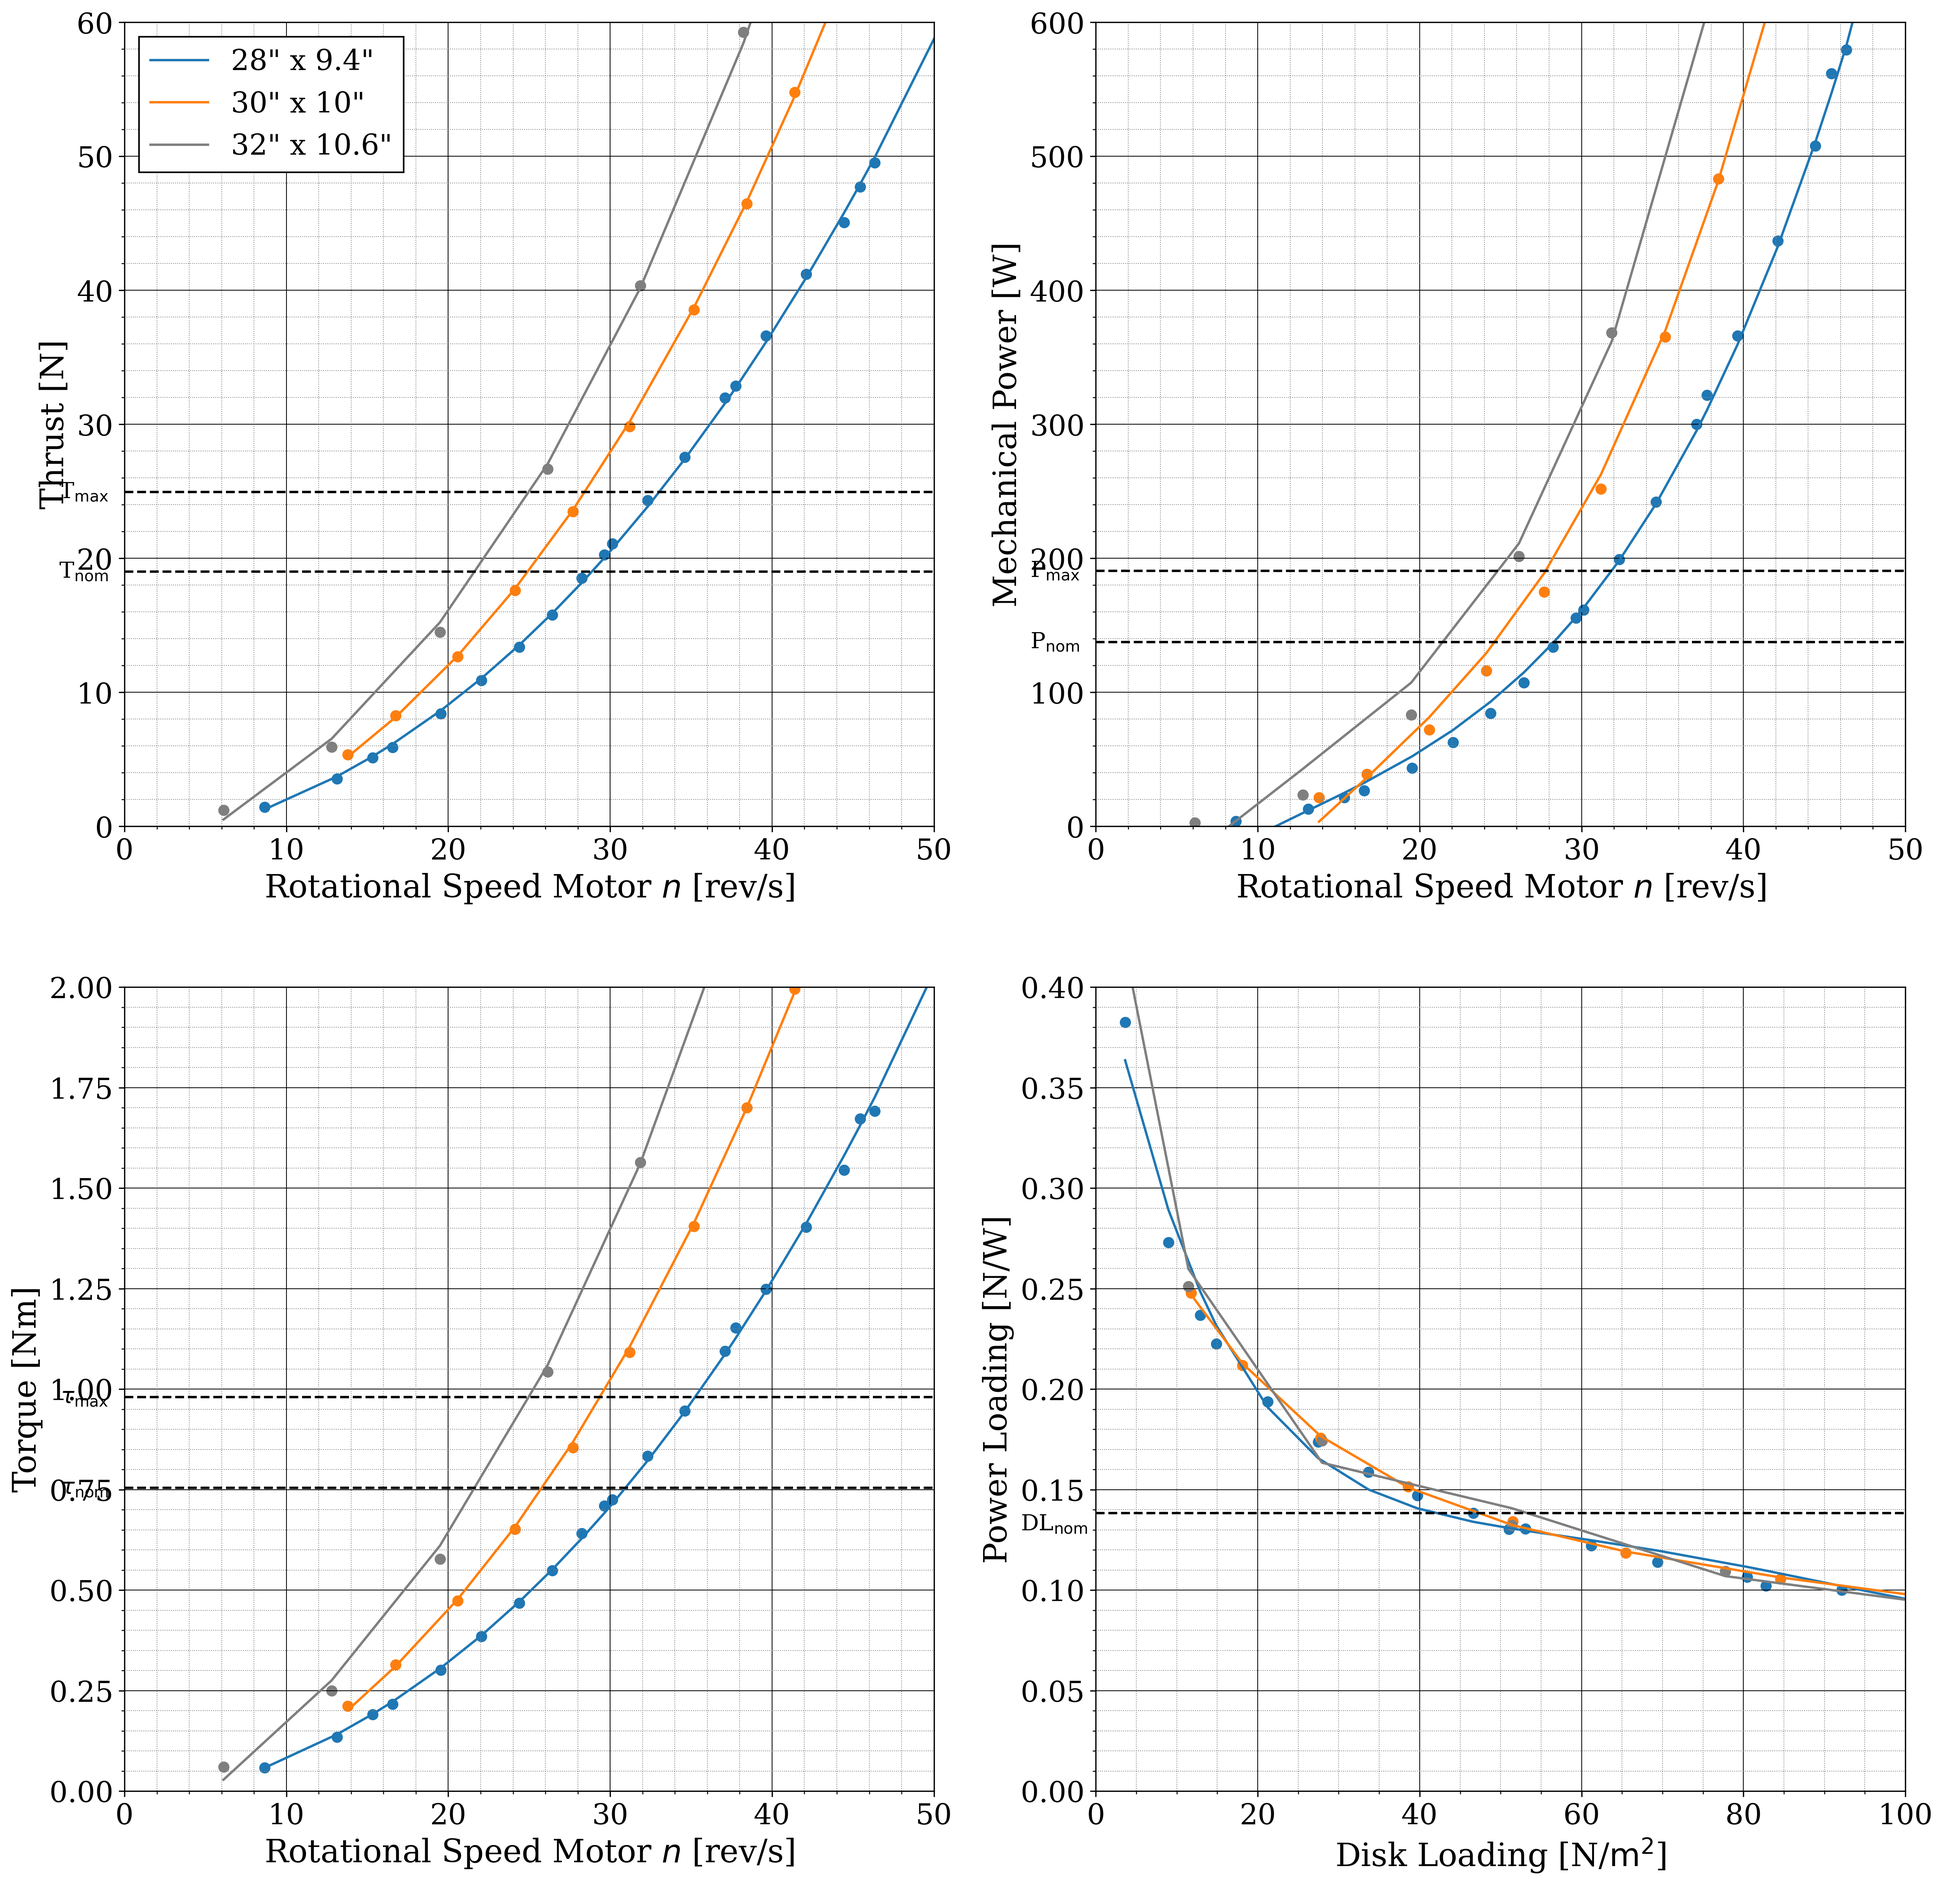
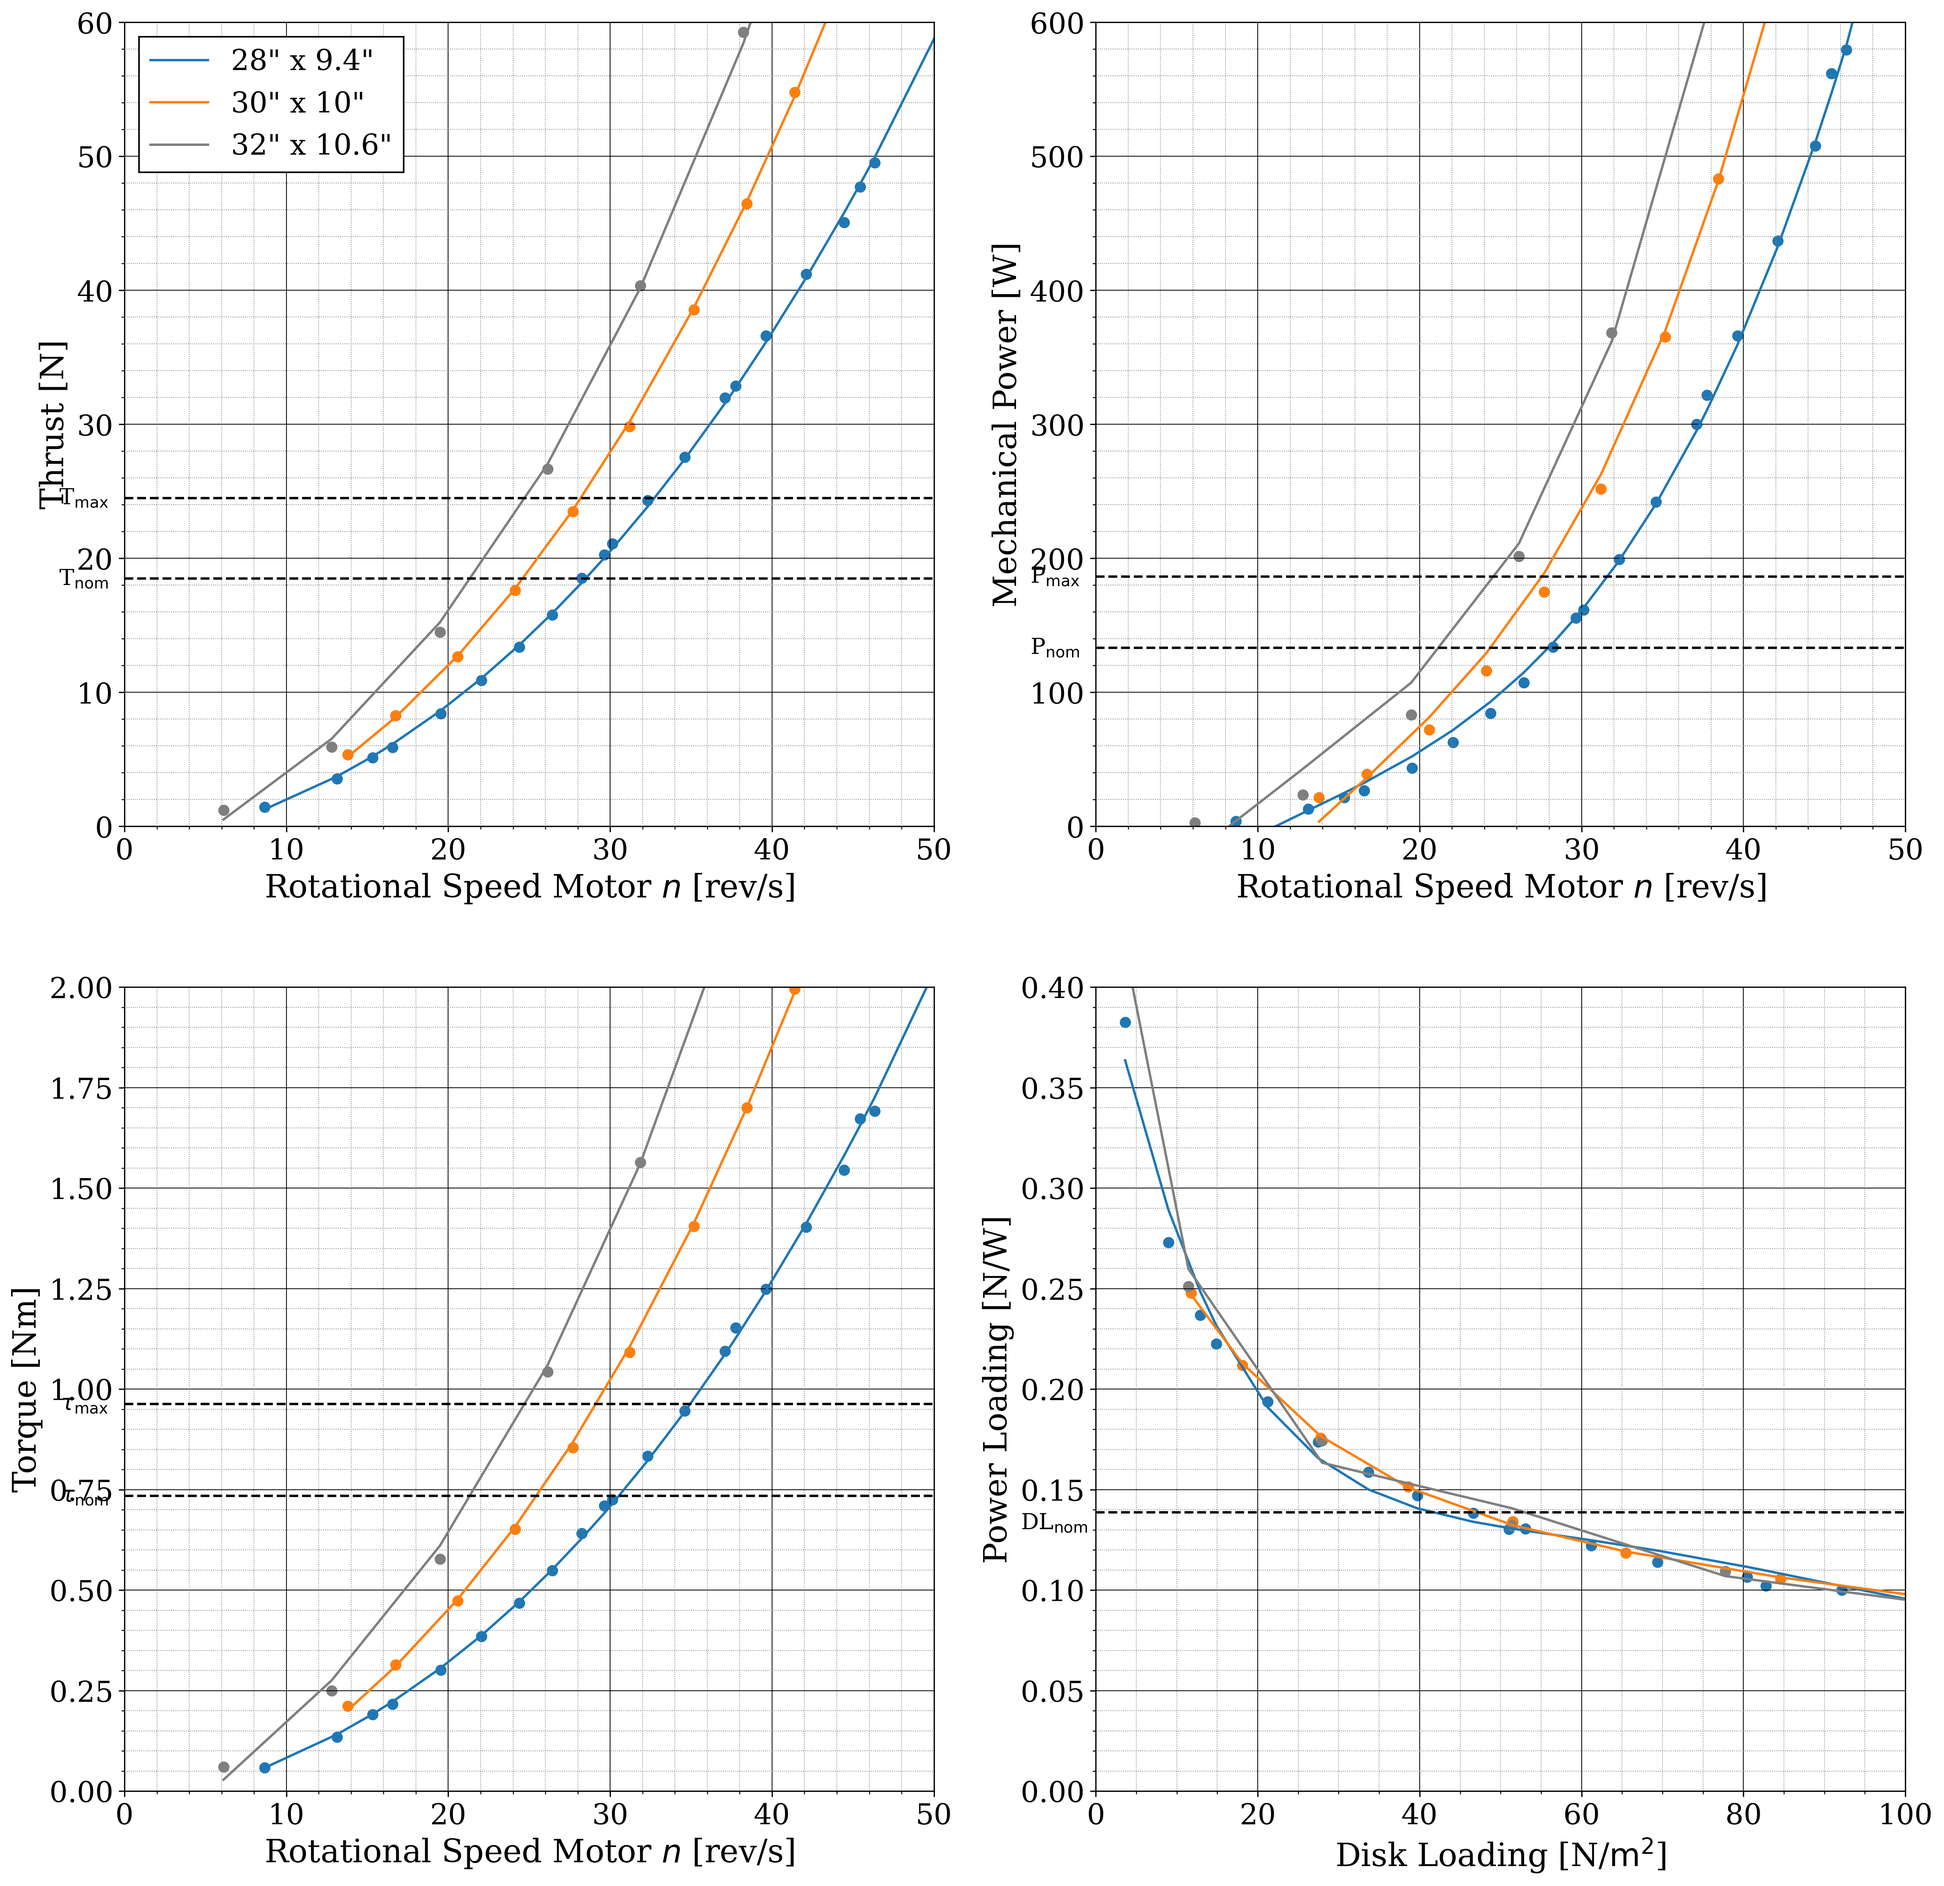
Updated Plume Modelling

diff --git a/PlumeModelling/main.py b/PlumeModelling/main.py
@@ -11,75 +11,133 @@
 		- Ir. Lorenzo Pasqualetto Cassinis
 		- Mark Schelbergen
 
-	This script is used for the propeller and motor sizing of the coaxial quadcopter		
+	This script is used for the data processing of the AQ data around Schiphol airport	
 '''
 
 import numpy as np
 import pandas as pd
+import matplotlib as mpl
 import matplotlib.pyplot as plt
 from math import pi, exp
 from pathlib import Path
-from scipy.stats import norm
-
-
+from sympy.solvers import solve
+from sympy.abc import xi, Q
+import datetime
+from scipy.stats import zscore
 
 # ==============================================================================================
-# Gaussian Plume Model
+# Set global plotting parameters
 # ==============================================================================================
-V = 12 # [m/s] freestream velocity
-xi = lambda x, y, z, h, Q, Ky, Kz: Q / (2 * pi * V) * (2 * Ky * x / V)**(-0.5) * (2 * Kz * x / V)**(-0.5) * exp( - y**2 / 2 * (2 * Ky * x / V)**(-1) - (z - h)**2 / 2 * (2 * Kz * x / V)**(-1)) #[g/m^3] pollutant concentration
+# texpsize= [18,20,22]
+
+# plt.rc('font', size=texpsize[1], family='serif')                        # controls default text sizes
+# plt.rc('axes', titlesize=texpsize[1])                                   # fontsize of the axes title
+# plt.rc('axes', labelsize=texpsize[1])                                   # fontsize of the x and y labels
+# plt.rc('xtick', labelsize=texpsize[0])                                  # fontsize of the tick labels
+# plt.rc('ytick', labelsize=texpsize[0])                                  # fontsize of the tick labels
+# plt.rc('legend', fontsize=texpsize[0])                                  # legend fontsize
+# plt.rc('figure', titlesize=texpsize[2])                                 # fontsize of the figure title
+# matplotlib.rcParams['lines.linewidth']  = 1.5
+# matplotlib.rcParams['figure.facecolor'] = 'white'
+# matplotlib.rcParams['axes.facecolor']   = 'white'
+# matplotlib.rcParams["legend.fancybox"]  = False
 
 # ==============================================================================================
 # Read Measurement Data from Pickle into DataFrame
 # ==============================================================================================
-# CO_stations 	= ['Badhoevedorp']
-# NO_stations 	= ['Badhoevedorp', 'Hoofddorp', 'Oude_Meer']
-# NO2_stations 	= ['Badhoevedorp', 'Hoofddorp', 'Oude_Meer']
-# O3_stations 	= ['Hoofddorp']
-# PM25_stations 	= ['Badhoevedorp']
-# PM10_stations 	= ['Badhoevedorp', 'Hoofddorp', 'Oude_Meer']
-PS_stations 	= ['Badhoevedorp', 'Hoofddorp', 'Oude_Meer']
+colors = ['tab:blue', 'tab:orange', 'tab:grey']
 
-species = ['CO', 'NO', 'NO2', 'O3', 'PM25', 'PM10', 'PS']
-species = ['PS']
-# stations_species = [CO_stations, NO_stations, NO2_stations, O3_stations, PM25_stations, PM10_stations, PS_stations]
-stations_species = [PS_stations]
+schiphol_data = {'CO'  : {'s1': 'Badhoevedorp'},
+				 'NO'  : {'s1': 'Badhoevedorp', 's2': 'Hoofddorp', 's3': 'OudeMeer'},
+				 'NO2' : {'s1': 'Badhoevedorp', 's2': 'Hoofddorp', 's3': 'OudeMeer'},
+				 'O3'  : {'s2': 'Hoofddorp'},
+				 'PM25': {'s1': 'Badhoevedorp'},
+				 'PM10': {'s1': 'Badhoevedorp', 's2': 'Hoofddorp', 's3': 'OudeMeer'},
+				 'PS'  : {'s1': 'Badhoevedorp', 's2': 'Hoofddorp', 's3': 'OudeMeer'}}
 
-df_CO 	= pd.DataFrame(columns=['concentration', 'timestamp'])
-df_NO 	= pd.DataFrame(columns=['concentration', 'timestamp'])
-df_NO2 	= pd.DataFrame(columns=['concentration', 'timestamp'])
-df_O3 	= pd.DataFrame(columns=['concentration', 'timestamp'])
-df_PM25 = pd.DataFrame(columns=['concentration', 'timestamp'])
-df_PM10 = pd.DataFrame(columns=['concentration', 'timestamp'])
-df_PS 	= pd.DataFrame()
+pollutants = {}
+times = [datetime.time(i,0) for i in range(6,24)]
 
-fig1, ax1 = plt.subplots(nrows=3, ncols=1, squeeze=False, figsize=(30,10))
+for species, stations in schiphol_data.items():
+	pollutant = pd.DataFrame() # initialise dataframe
 
-for index1, stations in enumerate(stations_species):
-	for index2, station in enumerate(stations):
+	for key, station in stations.items():
 		filedir = 'AQ_SchipholData'
-		file = str(station) + '_' + species[index1] + '.pickle'
-		path = Path(filedir, file)
+		file = station + '_' + species + '.pickle'
+		path = Path(filedir, file) # merge file direction and file name
 
-		df = pd.read_pickle(path) # import measurement data from pickle
-		df = df.drop(['formula'], axis=1) # remove column indicating species
-		df.columns = ['concentration', 'timestamp'] # rename column headers
-		df.concentration = df.concentration / 1000 # convert from milligram to gram
+		df = pd.read_pickle(path) # read data from pickle into dataframe
+		df.value = df.value.astype('float64') # convert data type for concentration back from object to flaot64
+		df.value = df.value * 1E-6 # convert concentrations from [microgram] to [gram]
 
-		# Get index where measurements for 2020 start - if no measurements taken in 2020, skip command
 		try:
-			dropindex = df.index[df.timestamp.str.startswith('2020')][0]
-			df = df[df.index < dropindex]
+			dropindex = df.index[df.timestamp_measured.str.startswith('2020')][0] # get start index for 2020 measurements
+			df = df[df.index < dropindex] # remove measurements for 2020
 		except IndexError:
 			pass
 
-		mu 		= df.concentration.mean()
-		sigma 	= df.concentration.std()
-		x 		= np.linspace(mu - 3 * sigma, mu + 3 * sigma, 1000)
+		df.timestamp_measured = pd.to_datetime(df.timestamp_measured, format='%Y-%m-%dT%H:%M:%S+00:00')
+		df = df[df['timestamp_measured'].dt.time.isin(times)] # remove times between 23:00:00 - 06:00:00
 
-		ax1[index2, 0].plot(x, norm.pdf(x, mu, sigma))
-		# print(index2)
+		df = df[(np.abs(zscore(df['value'])) < 3)] # remove outliers from dataset which are below/above 3 std. deviations
+		# df = df[df.value != 0] # remove rows which measured no concentration; negative concentrations are not excluded
+		df = df.reset_index() # reset indices of dataframe
+		df = df.drop(['index', 'formula'], axis=1) # remove unimportant columns
 
+		pollutant[station] = df.value
 
-plt.show()
+	pollutants[species] = pollutant
 
+# ==============================================================================================
+# Plot Data in Boxplots
+# ==============================================================================================
+concentration = pd.DataFrame(columns=['Species', 'Station', 'Max', 'Unit']) # initialise dataframe for plotting
+index = 0
+
+exportfolder = 'AQ_Boxplots'
+
+for key, value in pollutants.items():
+	fig1, ax1 = plt.subplots(nrows=1, ncols=1, squeeze=False, figsize=(8,6)) # create subplots
+
+	ylabel = 'Concentration ' + (r'particles/$m^3$' if key == 'PS' else r'g/$m^3$')
+
+	value.boxplot(ax=ax1[0,0])
+	ax1[0,0].set_ylabel(ylabel)
+
+	exportname = str(key) + '_boxplot.png'
+	exportpath = Path(exportfolder, exportname)
+	fig1.savefig(exportpath, bbox_inches='tight', dpi=300)
+
+	xi_max, pos = value.max(), value.max().idxmax(axis=1)
+	unit = 'p/m^3' if species == 'PS' else 'g/m^3' # print string of unit into dataframe
+	concentration.loc[index] = [key, pos, max(xi_max), unit]
+	index += 1
+
+# ==============================================================================================
+# Gaussian Plume Model
+# ==============================================================================================
+func = lambda xi, x, y, z, h, sigma_y, sigma_z, Q: -xi + Q / (2 * pi * sigma_y * sigma_z * V) * exp( - y**2 / (2 * sigma_y**2) - (z - h)**2 / (2 * sigma_z**2)) #[g/m^3] pollutant concentration
+
+V = 12 # [m/s] freestream velocity
+
+x = np.array([1.445E3, 0.4431E3, 1.339E3]) # minimum distance between station and runway
+
+emissionrates = pd.DataFrame(columns=['Species', 'Q', 'Unit'])
+
+for index, key in enumerate(schiphol_data.keys()):
+	xi_i = concentration.Max.iloc[index]
+	x_i = x[0] if str(concentration.Station) == 'Badhoevedorp' else x[1] if str(concentration.Station) == 'Hoofddorp' else x[2]
+	sigma_z = 0.06 * x_i * (1 + 0.0015 * x_i)**(-0.5)
+	sigma_y = 0.08 * x_i * (1 + 0.0001 * x_i)**(-0.5)
+	sigma_y = sigma_y if sigma_y > sigma_z else sigma_z
+	Q_i = solve(func(xi_i, x_i, 0, 0, 0, sigma_y, sigma_z, Q), Q) # FIX X INPUT TO MATCH MEASUREMENT STATION
+	emissionrates.loc[index] = [concentration.Species.iloc[index], Q_i[0], concentration.Unit.iloc[index]]
+
+emissionrates['Q'] = emissionrates['Q'].astype('float64') # convert object data type to float
+
+print ('\nMaximum Concentration per Pollutant:')
+print ('............................................')
+print(concentration)
+print ('\nMaximum Estimated Emission Rate per Pollutant:')
+print ('............................................')
+print(emissionrates)

diff --git a/Performance/performance.py b/Performance/performance.py
@@ -66,6 +66,7 @@ m_sensors 		= 2.386 # [kg] noise and air pollution sensors mass
 m_autonomy 		= 0.219 # [kg] autonomy hardware mass
 m_motors 		= n_propellers * 0.630 #[kg] brushless motor mass
 m_propellers 	= n_propellers * 91.46E-3 # [kg] propeller mass
+m_structures 	= 2.289 # [kg] operational empty mass
 
 # Frame data
 w_frame = 0.236 # [m] frame width
@@ -74,7 +75,7 @@ h_frame = 0.313 # [m] frame height
 # Motor data
 V_motor = 36 # [V] nominal voltage of motor
 
-# Battery configuration - Chosen cell: EEMB LP401730
+# Battery configuration - Chosen cell: EEMB LP623454
 DoD = 0.8 # [-] Depth of Discharge
 C_cell = 1200E-3 # [Ah] cell capacity
 m_cell = 22.5E-3 # [kg] cell mass
@@ -97,8 +98,6 @@ A_battery = 1.05 * A_battery # contingency margin for cooling / packaging
 
 n_max = floor(A_frame / A_battery) - 1
 
-print(n_max * m_battery)
-
 # Import propeller data from excel file in the following format
 # ['Motor Speed [1/s', 'Thrust [N]', 'Torque [Nm]', 'Voltage[V]', 'Current [A]']
 xls 	= pd.ExcelFile("PropellerData_Meizlik.xlsx")
@@ -113,7 +112,6 @@ exportname = ['28', '30', '32']
 
 # Initialise figures
 fig1, ax1 = plt.subplots(nrows=2, ncols=2, squeeze=False, figsize=(20,20))
-# fig2, ax2 = plt.subplots(nrows=2, ncols=2, squeeze=False, figsize=(20,10))
 
 # Colors used for iterative plotting
 colors = ['tab:blue', 'tab:orange', 'tab:grey']
@@ -125,7 +123,6 @@ for index, df in enumerate(blades):
 	m_parallel = n_max * m_battery 
 
 	# Mass budget
-	m_structures 	= 2.73 # [kg] operational empty mass
 	m 				= m_sensors + m_autonomy + m_parallel + m_structures + m_motors + m_propellers
 	m 				= 1.05 * m # [kg] contingency added
 
